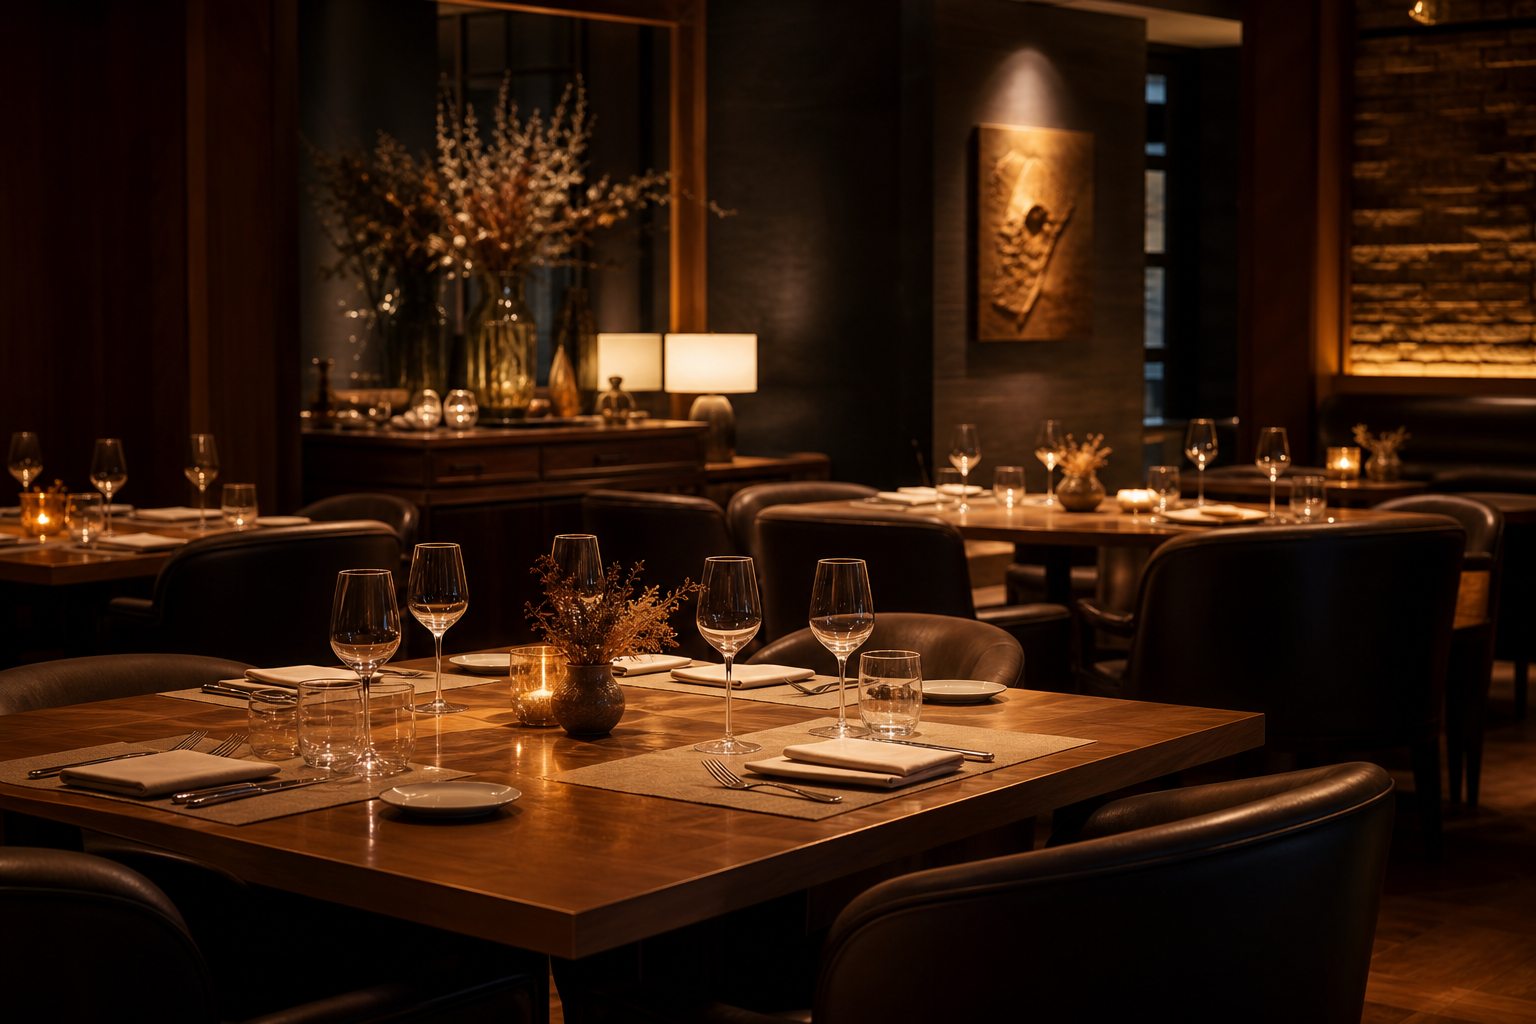
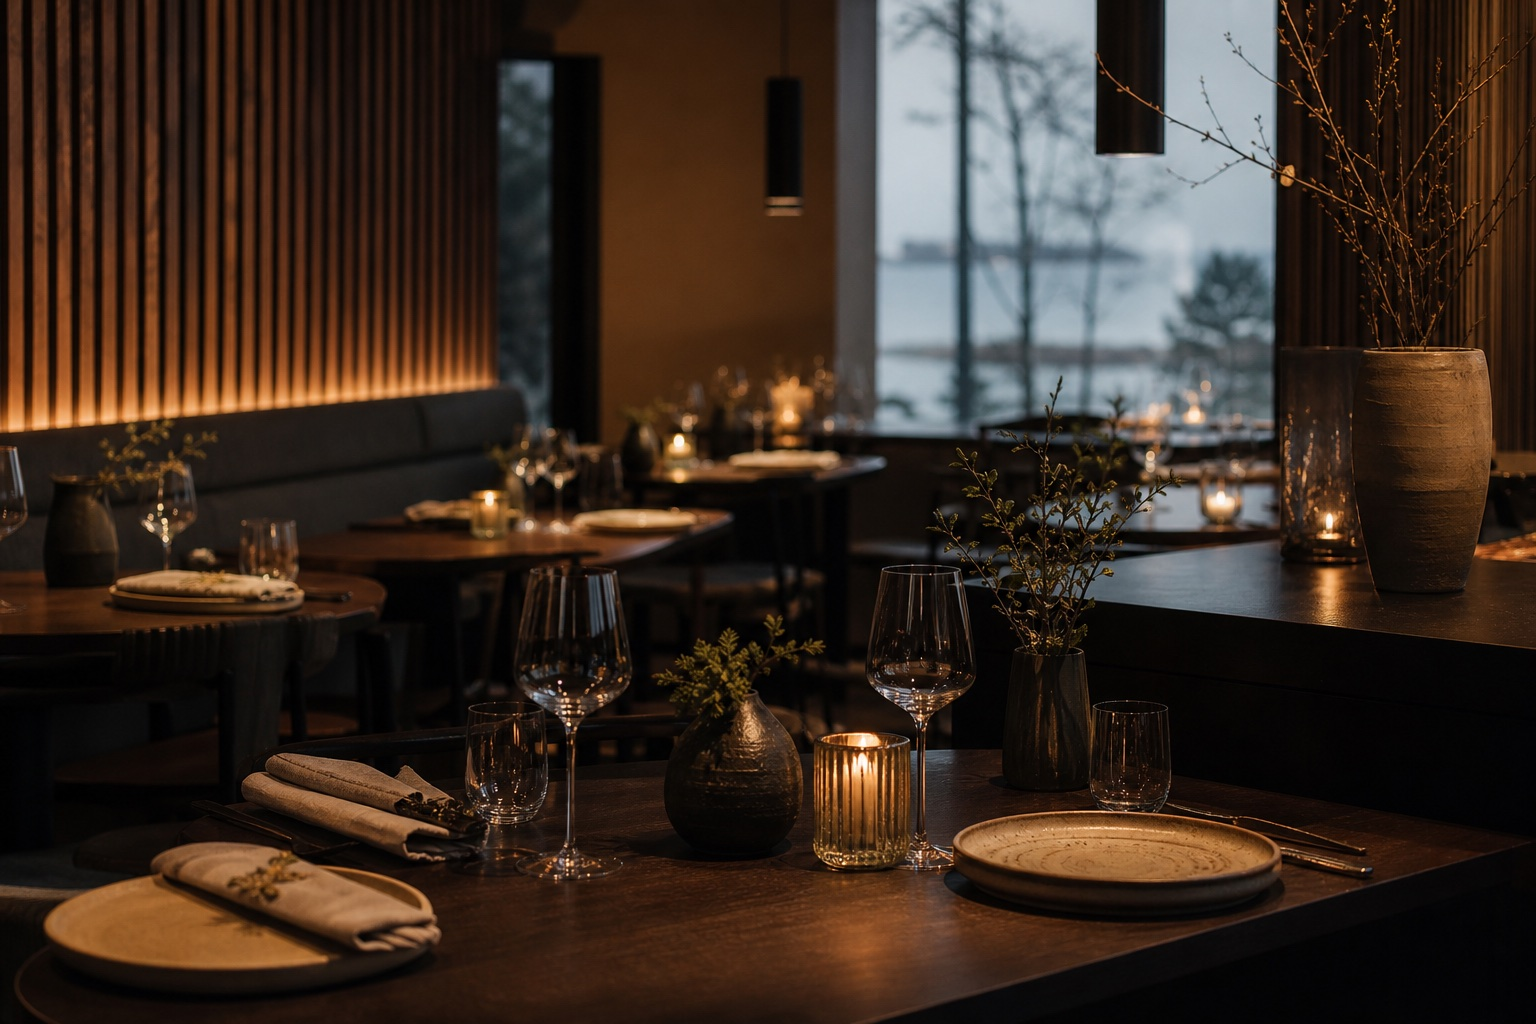
Rebrand booking widget as Restadigi product showcase (Ravintola Kajo).
Remove EasyTable/Ylläskota references and ship a fictional demo restaurant with original brand imagery, fully editable from the dashboard.

diff --git a/src/lib/booking-widget-config.ts b/src/lib/booking-widget-config.ts
@@ -1,4 +1,4 @@
-/** Online table-booking widget config (EasyTable-style demo on marketing + dashboard). */
+/** Online table-booking widget config (Restadigi product demo on marketing + dashboard). */
 
 export type BookingWidgetType = {
   id: string;
@@ -34,40 +34,41 @@ export type BookingWidgetConfig = {
   showEndTime: boolean;
 };
 
-export const BOOKING_WIDGET_STORAGE_KEY = "restadigi-booking-widget-config-v1";
+export const BOOKING_WIDGET_STORAGE_KEY = "restadigi-booking-widget-config-v2";
 
+/** Fictional Restadigi showcase restaurant — fully editable in the dashboard. */
 export const DEFAULT_BOOKING_WIDGET_CONFIG: BookingWidgetConfig = {
-  restaurantName: "Restaurant Ylläskota",
-  address: "Vaeltajantie 2, 95980 Ylläsjärvi",
-  brandTitle: "YLLÄSKOTA",
-  brandSubtitle: "GASTRONOMIC",
+  restaurantName: "Ravintola Kajo",
+  address: "Bulevardi 12, 00120 Helsinki",
+  brandTitle: "KAJO",
+  brandSubtitle: "HELSINKI",
   brandImageUrl: "/booking-widget-brand.jpg",
   bookingTypes: [
     {
-      id: "normal",
-      name: "Normaali varaus",
-      description: "Pöytä pääruokasalissa. Kesto asetusten mukaan.",
+      id: "salon",
+      name: "Sali",
+      description: "Pöytä pääruokasalissa — rentoutunut fine dining -tunnelma.",
       active: true,
     },
     {
-      id: "terrace",
-      name: "Terassi",
-      description: "Pöytä terassilla (säästä riippuen).",
+      id: "bar",
+      name: "Baari & lounge",
+      description: "Paikka baaritiskiltä tai lounge-alueelta.",
       active: true,
     },
   ],
   minGuests: 1,
-  maxGuests: 12,
+  maxGuests: 10,
   durationMinutes: 150,
   slotIntervalMinutes: 15,
   openTime: "17:00",
   lastStartTime: "21:00",
-  closedWeekdays: [],
+  closedWeekdays: [1],
   minNoticeHours: 2,
   advanceBookingDays: 60,
-  slotAccentColor: "#c5d5b8",
+  slotAccentColor: "#d4c4b0",
   termsText:
-    "Hyväksyn, että voin peruuttaa varauksen viimeistään 24 tuntia ennen. Tämä on demoesimerkki: tietoja ei tallenneta.",
+    "Hyväksyn varausehdot. Voin peruuttaa viimeistään 24 tuntia ennen. Tämä on Restadigin tuote-esittely — tietoja ei tallenneta.",
   showEndTime: true,
 };
 

diff --git a/src/i18n/dashboard-ui.ts b/src/i18n/dashboard-ui.ts
@@ -248,9 +248,9 @@ const fi = {
   },
   bookingWidget: {
     title: "Varauswidgetti",
-    subtitle: "EasyTable-tyylinen 5-vaiheinen pöytävaraus — näkyy /poytavaraupalvelu-sivulla",
+    subtitle: "Restadigin 5-vaiheinen pöytävaraus — näkyy /poytavaraupalvelu-sivulla",
     demoNote:
-      "Demovaraukset eivät tallennu tietokantaan. Asetukset tallentuvat Neonille ja päivittyvät live-demoon.",
+      "Demovaraukset eivät tallennu tietokantaan. Asetukset tallentuvat Neonille ja päivittyvät tuote-esittelyyn sivulla.",
     loadFailed: "Asetusten lataus epäonnistui",
     saveFailed: "Tallennus epäonnistui",
     saved: "Varauswidgetin asetukset tallennettu",
@@ -593,9 +593,9 @@ const en: DashboardUi = {
   },
   bookingWidget: {
     title: "Booking widget",
-    subtitle: "EasyTable-style 5-step table booking — shown on /poytavaraupalvelu",
+    subtitle: "Restadigi 5-step table booking — shown on /poytavaraupalvelu",
     demoNote:
-      "Demo bookings are not saved to the database. Settings save to Neon and update the live demo.",
+      "Demo bookings are not saved to the database. Settings save to Neon and update the product showcase on the page.",
     loadFailed: "Failed to load settings",
     saveFailed: "Failed to save",
     saved: "Booking widget settings saved",
@@ -924,9 +924,9 @@ const es: DashboardUi = {
   },
   bookingWidget: {
     title: "Widget de reservas",
-    subtitle: "Reserva de mesa en 5 pasos estilo EasyTable — visible en /poytavaraupalvelu",
+    subtitle: "Reserva de mesa Restadigi en 5 pasos — visible en /poytavaraupalvelu",
     demoNote:
-      "Las reservas demo no se guardan en la base de datos. Los ajustes se guardan en Neon y actualizan la demo en vivo.",
+      "Las reservas demo no se guardan en la base de datos. Los ajustes se guardan en Neon y actualizan la demo del producto en la página.",
     loadFailed: "Error al cargar ajustes",
     saveFailed: "Error al guardar",
     saved: "Ajustes del widget guardados",

diff --git a/src/i18n/messages/fi.ts b/src/i18n/messages/fi.ts
@@ -946,15 +946,15 @@ export const fi: Messages = {
       button: "Kysy lisää",
     },
     demo: {
-      sectionEyebrow: "Live-demo",
-      sectionTitleBefore: "Kokeile ",
-      sectionTitleAccent: "varauspolkua",
-      sectionTitleAfter: " — EasyTable-tyyliin.",
+      sectionEyebrow: "Tuote-esittely",
+      sectionTitleBefore: "Näin asiakas ",
+      sectionTitleAccent: "varaa pöydän",
+      sectionTitleAfter: " sivustoltasi.",
       sectionBody:
-        "Alla on esimerkki modernista 5-vaiheisesta pöytävarauksesta. Voit säätää asetuksia hallintapaneelissa. Demotiedot eivät tallennu tietokantaan.",
-      bannerEyebrow: "Esittely / demo",
+        "Alla on Restadigin pöytävarauspalvelun esimerkkinäkymä. Voit muokata ravintolan nimeä, aikoja ja tekstejä hallintapaneelissa. Demotiedot eivät tallennu tietokantaan.",
+      bannerEyebrow: "Restadigi — tuote-esittely",
       bannerBody:
-        "Tämä varausnäkymä on suunniteltu näyttämään, miten Restadigin pöytävaraus toimii asiakkaan silmin. Täytetyt tiedot ovat vain esimerkki — niitä ei tallenneta.",
+        "Tämä varauspolku esittelee Restadigin pöytävarauspalvelua. Täytetyt tiedot ovat vain esimerkki — niitä ei tallenneta. Oikeassa toteutuksessa varaukset menevät hallintapaneeliin.",
       liveBadge: "Demo",
       stepperAria: "Varauksen vaiheet",
       stepInfo: "Tiedot",

diff --git a/src/i18n/messages/es.ts b/src/i18n/messages/es.ts
@@ -953,15 +953,15 @@ export const es: Messages = {
       button: "Preguntar más",
     },
     demo: {
-      sectionEyebrow: "Demo en vivo",
-      sectionTitleBefore: "Prueba el ",
-      sectionTitleAccent: "flujo de reserva",
-      sectionTitleAfter: " — estilo EasyTable.",
+      sectionEyebrow: "Demo del producto",
+      sectionTitleBefore: "Así reserva mesa ",
+      sectionTitleAccent: "el cliente",
+      sectionTitleAfter: " en tu web.",
       sectionBody:
-        "Abajo tienes un ejemplo de reserva de mesa en 5 pasos. Configúralo desde el dashboard. Los datos de la demo no se guardan en base de datos.",
-      bannerEyebrow: "Demo / demostración",
+        "Abajo tienes la experiencia de reservas de mesa de Restadigi. Puedes editar nombre, horarios y textos en el dashboard. Los datos de la demo no se guardan en base de datos.",
+      bannerEyebrow: "Restadigi — demo del producto",
       bannerBody:
-        "Esta vista está pensada para mostrar cómo funciona la reserva de mesa de Restadigi para el cliente. Lo que rellenes es solo un ejemplo: no se almacena.",
+        "Este flujo muestra el servicio de reservas de mesa de Restadigi. Lo que rellenes es solo un ejemplo: no se almacena. En una instalación real, las reservas aparecen en el panel de admin.",
       liveBadge: "Demo",
       stepperAria: "Pasos de la reserva",
       stepInfo: "Información",

diff --git a/src/lib/booking-widget-service.ts b/src/lib/booking-widget-service.ts
@@ -36,10 +36,43 @@ export async function getBookingWidgetConfig(): Promise<{
   } catch {
     parsed = {};
   }
+  const config = parseBookingWidgetConfig(parsed);
+  // Replace legacy third-party demo branding with Restadigi showcase defaults.
+  if (isLegacyThirdPartyShowcase(config)) {
+    const next = { ...DEFAULT_BOOKING_WIDGET_CONFIG };
+    const json = JSON.stringify(next);
+    const now = new Date();
+    await db
+      .insert(schema.bookingWidgetConfig)
+      .values({
+        id: "default",
+        configJson: json,
+        updatedAt: now,
+      })
+      .onConflictDoUpdate({
+        target: schema.bookingWidgetConfig.id,
+        set: {
+          configJson: json,
+          updatedAt: now,
+        },
+      });
+    return { config: next, updatedAt: now.toISOString() };
+  }
   return {
-    config: parseBookingWidgetConfig(parsed),
+    config,
     updatedAt: row.updatedAt?.toISOString?.() ?? String(row.updatedAt),
   };
+}
+
+function isLegacyThirdPartyShowcase(config: BookingWidgetConfig) {
+  const blob = `${config.restaurantName} ${config.brandTitle} ${config.address}`.toLowerCase();
+  return (
+    blob.includes("ylläskota") ||
+    blob.includes("yllaskota") ||
+    blob.includes("ylläsjärvi") ||
+    blob.includes("yllasjarvi") ||
+    blob.includes("vaeltajantie")
+  );
 }
 
 export async function saveBookingWidgetConfig(input: unknown) {

diff --git a/src/i18n/messages/en.ts b/src/i18n/messages/en.ts
@@ -945,15 +945,15 @@ export const en: Messages = {
       button: "Ask for more",
     },
     demo: {
-      sectionEyebrow: "Live demo",
-      sectionTitleBefore: "Try the ",
-      sectionTitleAccent: "booking flow",
-      sectionTitleAfter: " — EasyTable style.",
+      sectionEyebrow: "Product showcase",
+      sectionTitleBefore: "How guests ",
+      sectionTitleAccent: "book a table",
+      sectionTitleAfter: " on your site.",
       sectionBody:
-        "Below is an example of a modern 5-step table booking experience. Configure it in the dashboard. Demo data is not saved to a database.",
-      bannerEyebrow: "Demo / showcase",
+        "Below is Restadigi’s table-booking experience. Edit the restaurant name, times and copy in the dashboard. Demo data is not saved to a database.",
+      bannerEyebrow: "Restadigi — product showcase",
       bannerBody:
-        "This booking view is designed to show how Restadigi’s table reservation looks for guests. Anything you enter is an example only — nothing is stored.",
+        "This booking flow showcases Restadigi’s table reservation service. Anything you enter is an example only — nothing is stored. In a real setup, bookings appear in the admin panel.",
       liveBadge: "Demo",
       stepperAria: "Booking steps",
       stepInfo: "Info",

diff --git a/src/db/schema.ts b/src/db/schema.ts
@@ -136,7 +136,7 @@ export const outboundEmails = pgTable("outbound_emails", {
   sentAt: timestamp("sent_at", { withTimezone: true }).defaultNow().notNull(),
 });
 
-/** EasyTable-style online booking widget config (JSON blob). */
+/** Online booking widget config for Restadigi table-reservation product (JSON blob). */
 export const bookingWidgetConfig = pgTable("booking_widget_config", {
   id: text("id").primaryKey().default("default"),
   configJson: text("config_json").notNull(),
